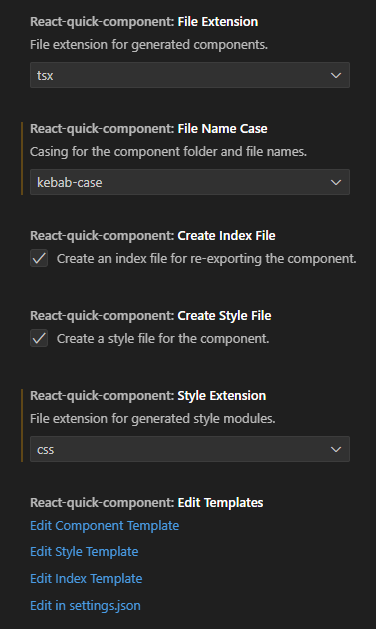
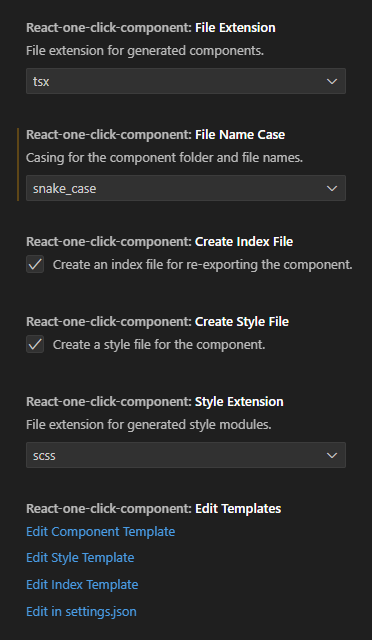
change name and small fixes

diff --git a/src/extension.ts b/src/extension.ts
@@ -2,7 +2,7 @@
 import * as fs from 'fs';
 import * as path from 'path';
 import * as vscode from 'vscode';
-import { ECommands, EConfigKey } from './constants';
+import { ECommands, EConfigKey, EFileExt, EFileNameCase, EStyleExt } from './constants';
 import { toPascalCase } from './formatters';
 import { generateComponentFiles } from './generator';
 import { readAndCleanTemplate, registerTemplateOpenCommands } from './utils';
@@ -18,14 +18,13 @@ export function activate(context: vscode.ExtensionContext) {
     const baseName = path.basename(folderPath);
 
     const config = vscode.workspace.getConfiguration(EConfigKey.Root);
-    const fileExt = config.get<string>('fileExtension', 'tsx');
-    const styleExt = config.get<string>('styleExtension', 'scss');
+    const fileExt = config.get<EFileExt>('fileExtension', EFileExt.Tsx);
+    const styleExt = config.get<EStyleExt>('styleExtension', EStyleExt.Scss);
     const createIndexFile = config.get<boolean>('createIndexFile', true);
     const createStyleFile = config.get<boolean>('createStyleFile', true);
-    const fileNameCase = config.get<string>('fileNameCase', 'PascalCase');
+    const fileNameCase = config.get<EFileNameCase>('fileNameCase', EFileNameCase.Camel);
 
     try {
-      // Пути к файлам шаблонов в папке dist, куда их копирует esbuild
       const componentTemplatePath = path.join(context.extensionPath, 'dist', 'templates', 'component.template');
       const styleTemplatePath = path.join(context.extensionPath, 'dist', 'templates', 'style.template');
       const indexTemplatePath = path.join(context.extensionPath, 'dist', 'templates', 'index.template');

diff --git a/src/generator.ts b/src/generator.ts
@@ -36,7 +36,7 @@ export const generateComponentFiles = (options: IComponentGenOptions): IGenerate
 
   const componentName = toPascalCase(baseName);
   const fileName = formatName(baseName, fileNameCase);
-  const className = formatName(baseName, 'camelCase');
+  const className = formatName(baseName, EFileNameCase.Camel);
 
   const files: IGeneratedFile[] = [];
 

diff --git a/src/constants.ts b/src/constants.ts
@@ -1,5 +1,5 @@
 export enum EConfigKey {
-  Root = 'react-quick-component',
+  Root = 'react-one-click-component',
 }
 export enum ECommands {
   GenerateFIles = `${EConfigKey.Root}.generateFiles`,

diff --git a/README.md b/README.md
@@ -1,5 +1,5 @@
 
-# React Quick Component
+# React One Click Component
 
 Quickly generate React component files (component, style, index) directly from the VS Code explorer context menu. This extension is designed to streamline your workflow by creating a consistent and customizable file structure for your React components.
 
@@ -38,25 +38,25 @@ You can customize the extension's behavior via the VS Code settings (`settings.j
 
 | Setting | Description | Options | Default |
 |---|---|---|---|
-| `react-quick-component.fileExtension` | File extension for generated components. | `tsx`, `jsx` | `tsx` |
-| `react-quick-component.fileNameCase` | Casing for the component file names. The component name inside the file will always be `PascalCase`. | `PascalCase`, `camelCase`, `kebab-case`, `snake_case` | `camelCase` |
-| `react-quick-component.createIndexFile` | Create an `index` file for re-exporting the component. | `true`, `false` | `true` |
-| `react-quick-component.createStyleFile` | Create a style file for the component. | `true`, `false` | `true` |
-| `react-quick-component.styleExtension` | File extension for generated style modules. | `scss`, `css`, `less`, `sass` | `scss` |
+| `react-one-click-component.fileExtension` | File extension for generated components. | `tsx`, `jsx` | `tsx` |
+| `react-one-click-component.fileNameCase` | Casing for the component file names. The component name inside the file will always be `PascalCase`. | `PascalCase`, `camelCase`, `kebab-case`, `snake_case` | `camelCase` |
+| `react-one-click-component.createIndexFile` | Create an `index` file for re-exporting the component. | `true`, `false` | `true` |
+| `react-one-click-component.createStyleFile` | Create a style file for the component. | `true`, `false` | `true` |
+| `react-one-click-component.styleExtension` | File extension for generated style modules. | `scss`, `css`, `less`, `sass` | `scss` |
 
 ### How to Edit Templates
 
 You can easily edit the templates used for file generation. Open the command palette (`Ctrl+Shift+P` or `Cmd+Shift+P`) and search for:
 
--   `React Quick Component: Edit Component Template`
--   `React Quick Component: Edit Style Template`
--   `React Quick Component: Edit Index Template`
+-   `React One Click Component: Edit Component Template`
+-   `React One Click Component: Edit Style Template`
+-   `React One Click Component: Edit Index Template`
 
 Alternatively, you can find clickable links in the extension's settings UI.
 
 ![Extension Settings](assets/settings.png)
 
-> **Note on using `.jsx`:** The default component template includes TypeScript syntax (e.g., `FC` type). If you set the `fileExtension` to `jsx`, you should edit the component template to remove any TypeScript-specific code. Use the `React Quick Component: Edit Component Template` command to do this.
+> **Note on using `.jsx`:** The default component template includes TypeScript syntax (e.g., `FC` type). If you set the `fileExtension` to `jsx`, you should edit the component template to remove any TypeScript-specific code. Use the `React One Click Component: Edit Component Template` command to do this.
 
 The following placeholders are available in the templates:
 #### For `component.template`:
@@ -77,14 +77,14 @@ Since this extension is not yet published on the VS Code Marketplace, you can bu
 
 1.  **Clone the repository:**
     ```bash
-    git clone https://github.com/winkyBrain/react-quick-component.git
+    git clone https://github.com/winkyBrain/react-one-click-component.git
     ```
     or with SSH
     ```bash
-    git clone git@github.com:winkyBrain/react-quick-component.git
+    git clone git@github.com:winkyBrain/react-one-click-component.git
     ```
     ```bash
-    cd react-quick-component
+    cd react-one-click-component
     ```
 
 3.  **Install dependencies:**
@@ -103,7 +103,7 @@ Since this extension is not yet published on the VS Code Marketplace, you can bu
     -   Go to the **Extensions** view (or press `Ctrl+Shift+X`).
     -   Click the **...** (More Actions) menu in the top-right corner of the view.
     -   Select **Install from VSIX...**.
-    -   Find and select the `.vsix` file generated in the previous step (e.g., `react-quick-component-0.1.0.vsix`).
+    -   Find and select the `.vsix` file generated in the previous step (e.g., `react-one-click-component-0.1.0.vsix`).
     -   Reload VS Code when prompted.
 
 ![How to install from file](assets/howToInstall.png)
